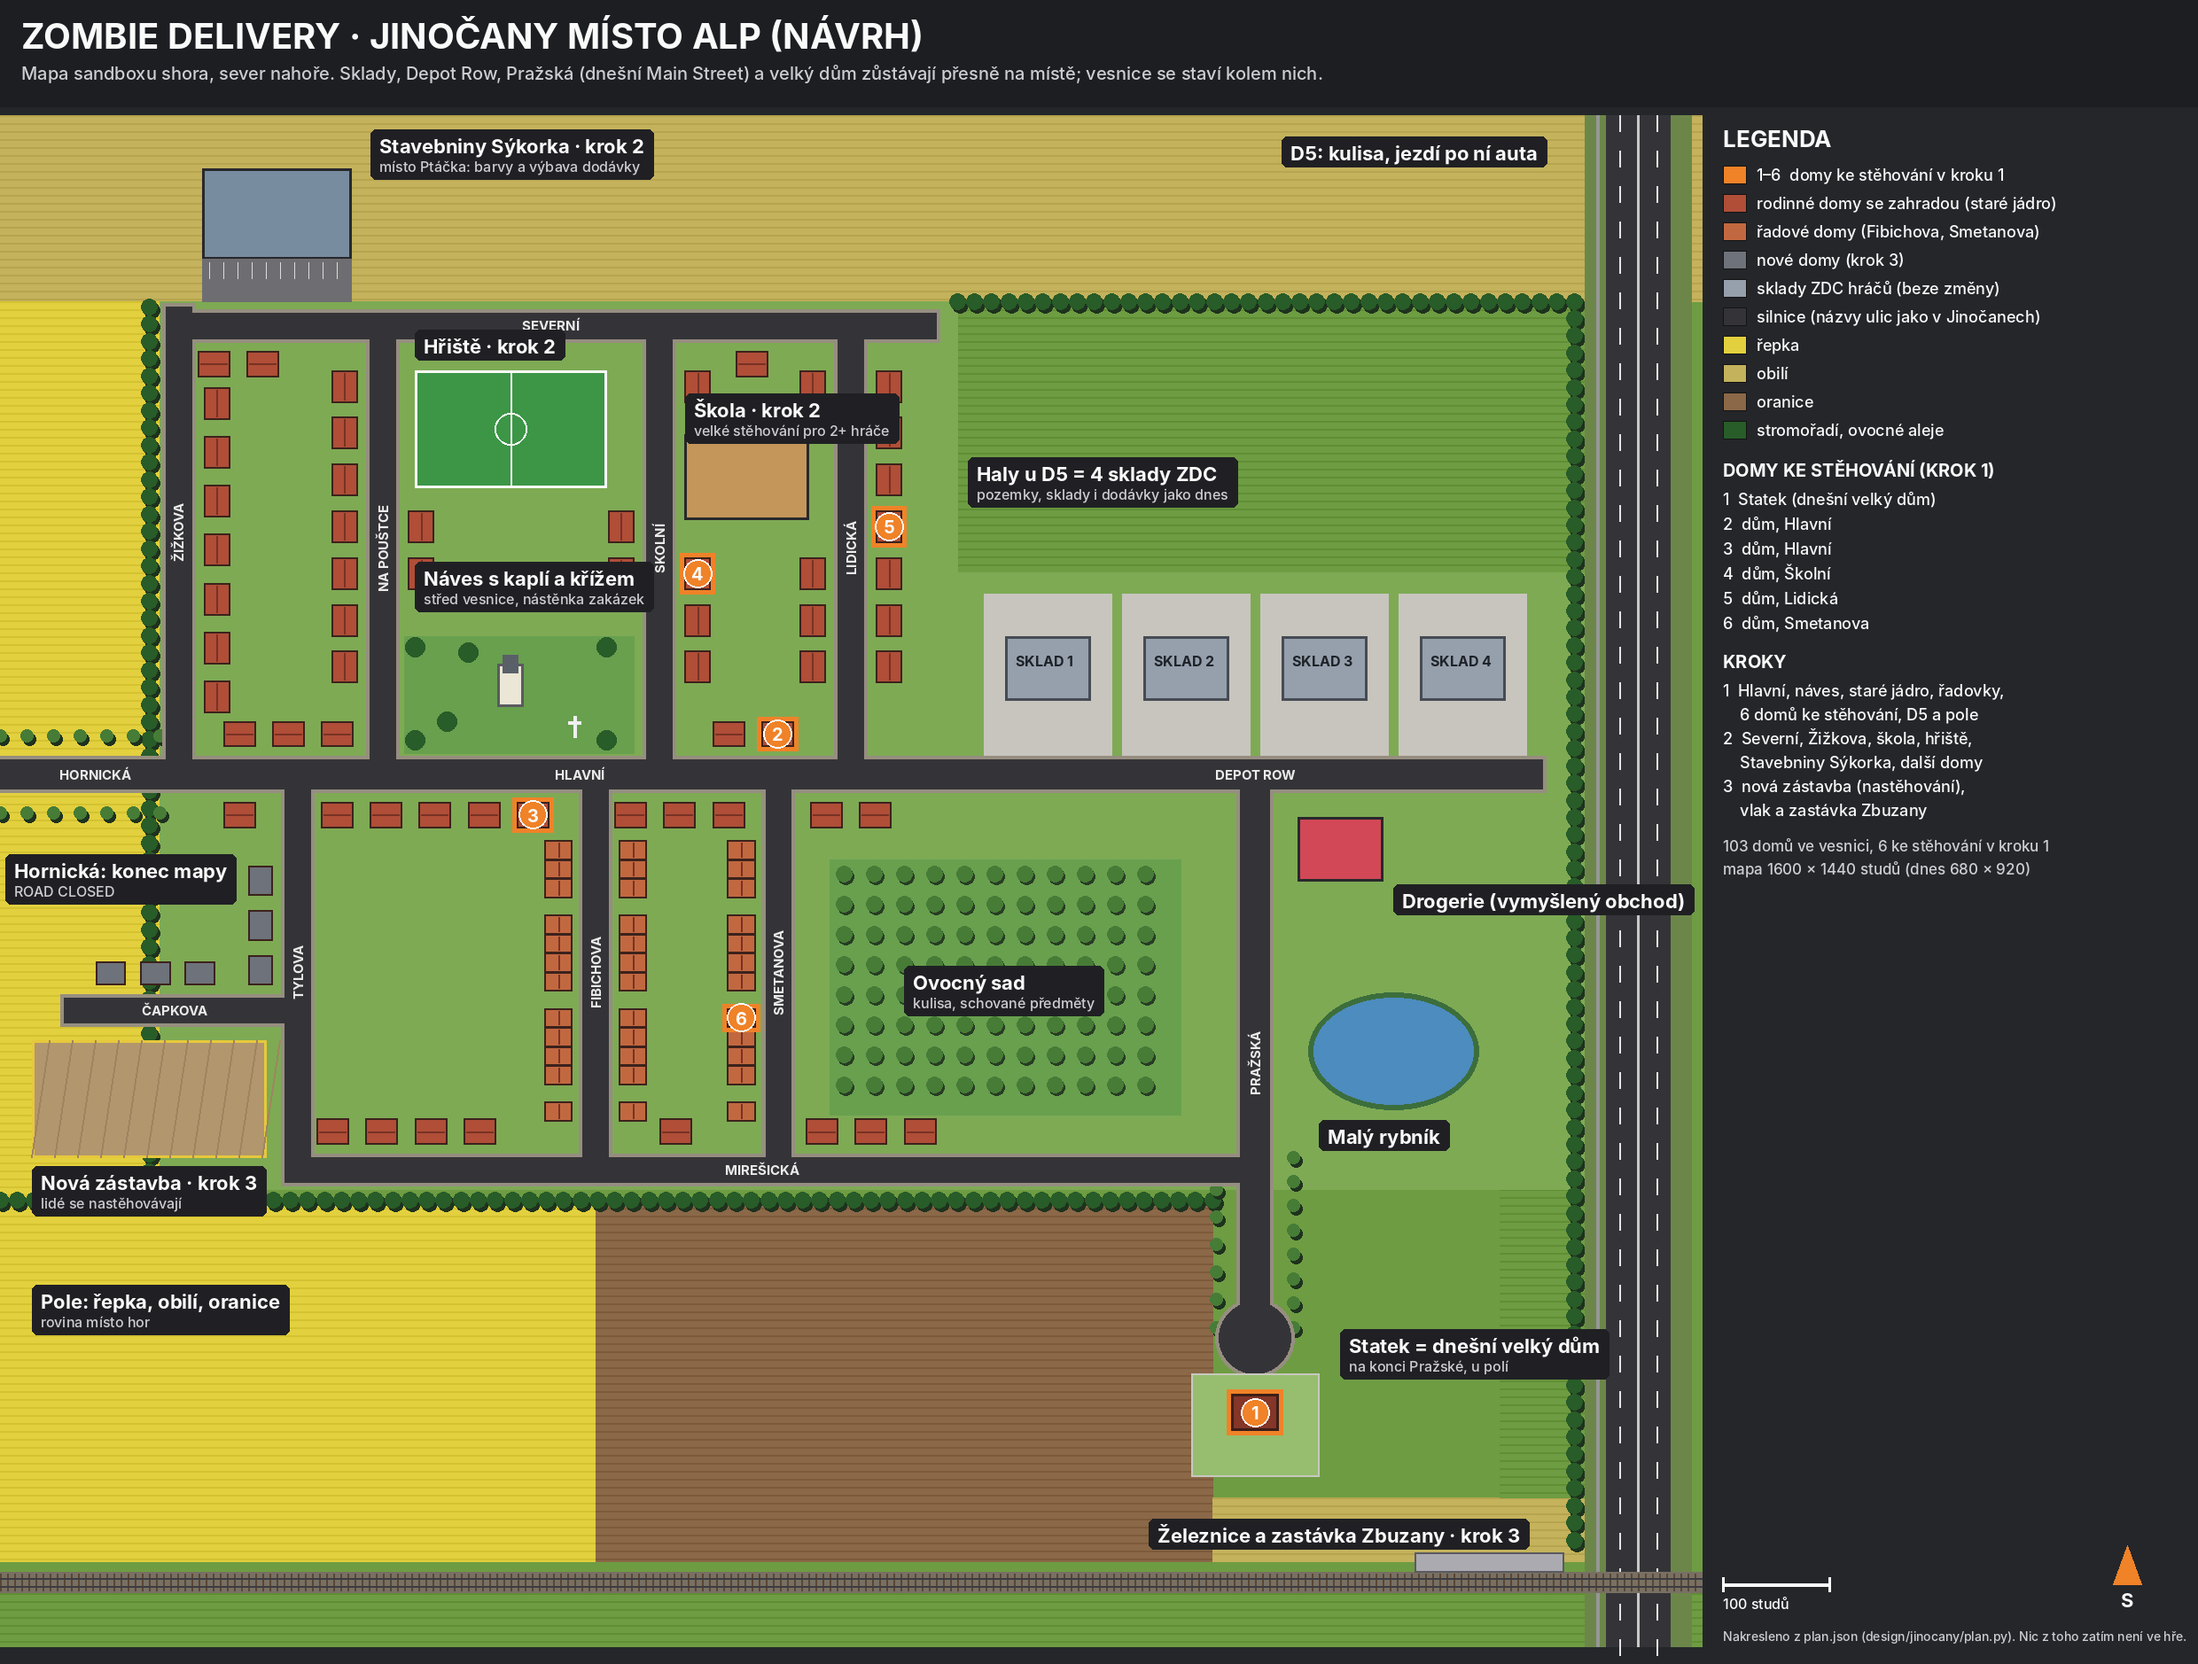
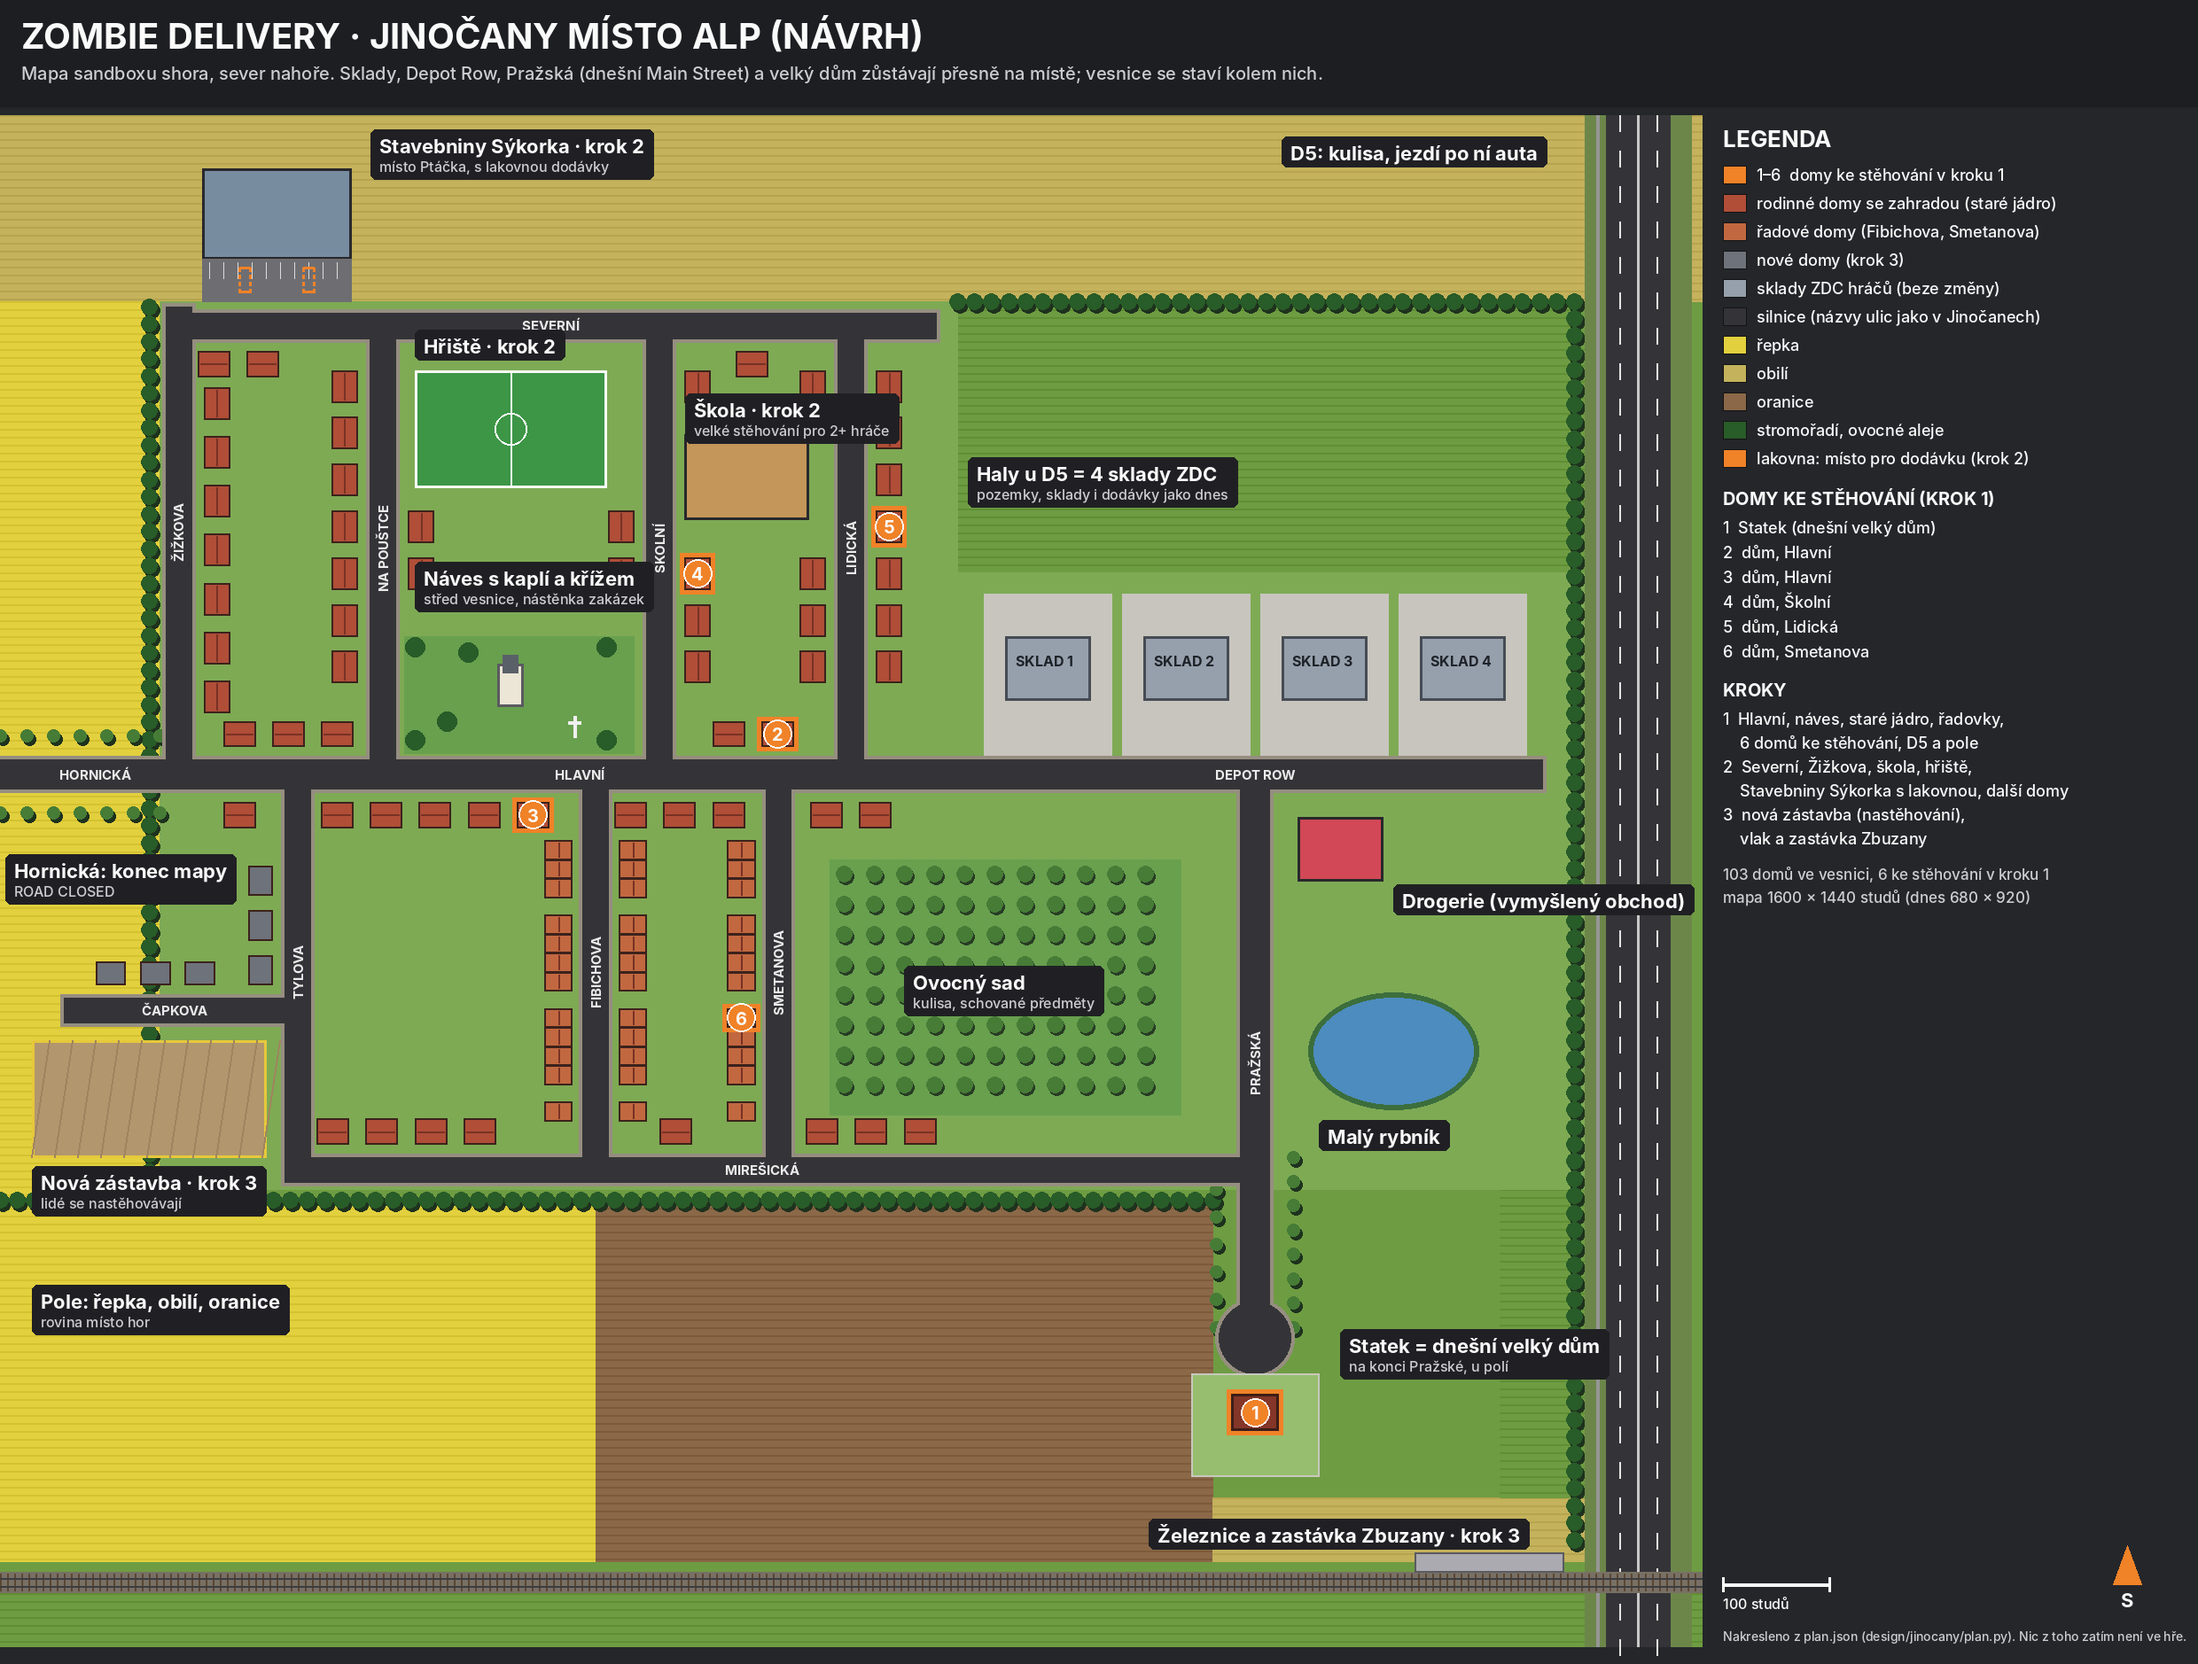
Zombie Delivery plan: Jinočany approved, Sýkorka gets the paint shop
The owner approved design/jinocany/NAVRH.md: the big house becomes The
Old Farmstead, 6 houses to empty in step 1, Stavebniny Sýkorka gets the
van's PAINT shop in step 2 (paint only there: two paint bays in its car
park, plan.paintBays; the technical plan's new section 4b says what
changes in VanPaint and the guide), the city and the alpine valley plan
(design/rework/MAPA-KROK2.md, marked postponed) stay as they are, and
the street names keep their Czech diacritics.

The proposal's status, the plan's data and picture and the COLLAB
handoff are updated; nothing in the game changes.

Claude-Session: https://claude.ai/code/session_01UeMNWkRiVzyVEt6kj41Z5n

Changed region(s): [[0.7762, 0.2471, 0.9315, 0.5559], [0.2173, 0.0927, 0.2794, 0.1235]]

diff --git a/zombie-delivery/design/jinocany/plan.py b/zombie-delivery/design/jinocany/plan.py
@@ -70,6 +70,10 @@ LANDMARKS = [
     ("station", "zastávka Zbuzany", "Zbuzany stop", (150, 290, 672, 690), 3, "station"),
 ]
 
+# The owner's choice (step 2): the van's PAINT shop at Sýkorka. Its two bays in the car park: the van's pivot (as a
+# plot's vanSpot), nose north to the store; VanPaint's prompt works there instead of at the plot's van spot.
+PAINT_BAYS = [{"x": -950, "z": -525, "yaw": 0}, {"x": -890, "z": -525, "yaw": 0}]
+
 # Fields (the crops' colours on the ground): rect, kind.
 FIELDS = [
     ((-1180, 420, -680, -505), "wheat"),
@@ -355,6 +359,14 @@ def picture(roads, landmarks, houses, enter, path):
     for road in roads:
         street_name(img, road)
     draw = ImageDraw.Draw(img)
+    # the paint bays (step 2): the van's outline, dashed orange
+    for bay in PAINT_BAYS:
+        b = R(rect(bay["x"] - 5, bay["x"] + 5, bay["z"] - 11, bay["z"] + 11))
+        for k in range(int(b[1]), int(b[3]), 8):
+            draw.line([b[0], k, b[0], k + 4], fill=COL["accent"], width=3)
+            draw.line([b[2], k, b[2], k + 4], fill=COL["accent"], width=3)
+        draw.line([b[0], b[1], b[2], b[1]], fill=COL["accent"], width=3)
+        draw.line([b[0], b[3], b[2], b[3]], fill=COL["accent"], width=3)
     # the houses to empty (step 1): an orange ring and their number
     fn = font(20, True)
     for i, e in enumerate(enter):
@@ -377,7 +389,7 @@ def picture(roads, landmarks, houses, enter, path):
     tag(draw, *at(130, 40, 0, 4), "Drogerie (vymyšlený obchod)")
     tag(draw, *at(-536, -380, 0, -46), "Škola · krok 2", "velké stěhování pro 2+ hráče")
     tag(draw, *at(-790, -440, 0, -46), "Hřiště · krok 2")
-    tag(draw, *at(-840, -630, 10, -44), "Stavebniny Sýkorka · krok 2", "místo Ptáčka: barvy a výbava dodávky")
+    tag(draw, *at(-840, -630, 10, -44), "Stavebniny Sýkorka · krok 2", "místo Ptáčka, s lakovnou dodávky")
     tag(draw, *at(-1150, 300, 0, 10), "Nová zástavba · krok 3", "lidé se nastěhovávají")
     tag(draw, *at(150, 690, -300, -60), "Železnice a zastávka Zbuzany · krok 3")
     tag(draw, *at(300, -660, -330, 0), "D5: kulisa, jezdí po ní auta")
@@ -403,6 +415,7 @@ def picture(roads, landmarks, houses, enter, path):
         (COL["asphalt"], "silnice (názvy ulic jako v Jinočanech)"),
         (COL["rapeseed"], "řepka"), (COL["wheat"], "obilí"), (COL["ploughed"], "oranice"),
         (COL["tree"], "stromořadí, ovocné aleje"),
+        (COL["accent"], "lakovna: místo pro dodávku (krok 2)"),
     ]
     for colour, text in rows:
         draw.rectangle([lx, y + 3, lx + 26, y + 23], fill=colour, outline=(20, 20, 20))
@@ -418,7 +431,7 @@ def picture(roads, landmarks, houses, enter, path):
     draw.text((lx, y), "KROKY", font=font(20, True), fill=COL["white"])
     y += 34
     for line in ("1  Hlavní, náves, staré jádro, řadovky,", "    6 domů ke stěhování, D5 a pole",
-                 "2  Severní, Žižkova, škola, hřiště,", "    Stavebniny Sýkorka, další domy",
+                 "2  Severní, Žižkova, škola, hřiště,", "    Stavebniny Sýkorka s lakovnou, další domy",
                  "3  nová zástavba (nastěhování),", "    vlak a zastávka Zbuzany"):
         draw.text((lx, y), line, font=font(18), fill=COL["white"])
         y += 27
@@ -474,6 +487,7 @@ def main():
         "bounds": BOUNDS,
         "plots": PLOTS,
         "turnaround": TURNAROUND,
+        "paintBays": PAINT_BAYS,
         "bigHouse": BIG_HOUSE,
         "roads": roads,
         "landmarks": landmarks,

diff --git a/zombie-delivery/COLLAB.md b/zombie-delivery/COLLAB.md
@@ -11,7 +11,7 @@ The rules are in `AGENTS.md`. Keep this file short: one line per task, newest on
 
 ## Questions / handoff
 <!-- notes for the other helper: bugs seen, ideas, "please check X" -->
-- Claude (hotfix lane) → Claude (main session): the owner chose **Jinočany instead of the Alps** for the sandbox. The proposal is `design/jinocany/NAVRH.md` (Czech for the owner, an English technical plan for you), with `plan.json` / `plan.png` from `plan.py`: today's plots, Depot Row, Main Street (→ Pražská), turnaround and big house (→ The Old Farmstead) stay put; the village, 6 houses to empty in step 1, fields and the D5 round them. Waiting on the owner's five decisions at the end of its Czech part; the build is yours (the sandbox world).
+- Claude (hotfix lane) → Claude (main session): the owner chose **Jinočany instead of the Alps** for the sandbox and **approved the plan** (15. 10. 2026): `design/jinocany/NAVRH.md` (Czech for the owner, an English technical plan for you; `plan.json` / `plan.png` from `plan.py`). Decided: the big house becomes The Old Farmstead; 6 houses to empty in step 1; Stavebniny Sýkorka gets the van's PAINT shop in step 2 (paint only there, `plan.paintBays`, section 4b); the city and `design/rework/MAPA-KROK2.md` are on hold; street names in Czech with diacritics. Ready to build; the sandbox world is yours.
 - Claude (vehicles) → Map agent: `shared/Map.luau` still says Earl sells his van (landmark `earl`: "your first vehicle (Marge's quest at level 4)") and the dealer's description mentions Earl, every car's garage slot and "cars, vans and trucks"; 7.x Earl's van is SOLD (a display, he only talks) and the ZDC Van is the only car (the dealer shows it in its paints, the BIKES counter as before). The employer landmarks now read "the bonus is yours" (`reward = "bonus"`, the sum in `employer.bonus`); `World.luau` still calls `VanQuest.priceText()`/`promptText()` (kept, they return the SOLD tag and "Talk").
 - Claude (vehicles) → Moving agent: `Config.Moving.Truck` ("movingtruck") is an ambient body now (`Config.AmbientCars`, found by `Economy.findCar`, lent by `Vehicles.spawnAt` because it is `company`); if moves switch to the owner's ZDC Van, `tests/moving_test.luau`'s truck lookup (it walks `Config.AmbientCars`) goes with it.
 - Codex → Claude: all four 5.x groups are pushed, independently based on `2addbf9` main; review in kit → phone → bike → gas order. Shared `ModelArt/Builder` and the base tooling files are identical on all four branches (skin remains unanchored). Preserve/move each branch row when resolving the board merge. Gameplay integration, Studio checks and icon uploads/IDs remain yours; group READMEs document target roots, cleanup and reference render shells.

diff --git a/zombie-delivery/design/rework/MAPA-KROK2.md b/zombie-delivery/design/rework/MAPA-KROK2.md
@@ -1,5 +1,8 @@
 # Mapa, krok 2: menší alpské údolí (plán)
 
+> **Odloženo (15. 10. 2026):** vlastník vybral pro sandbox Jinočany místo Alp (`design/jinocany/NAVRH.md`). Město
+> zůstává, jak je (je vypnuté), a tento plán se teď nestaví.
+
 Toto je jen plán, ve hře se zatím nic nemění. Navazuje na **krok 1** (pryč japonská zahrada, domy jako chaty, prstenec
 hor a lesy, nic se nestěhuje) a začít smí, až bude krok 1 v `main`. Krok 3 pak promění střed města ve staré
 město (Altstadt) s kostelem a náměstím.
